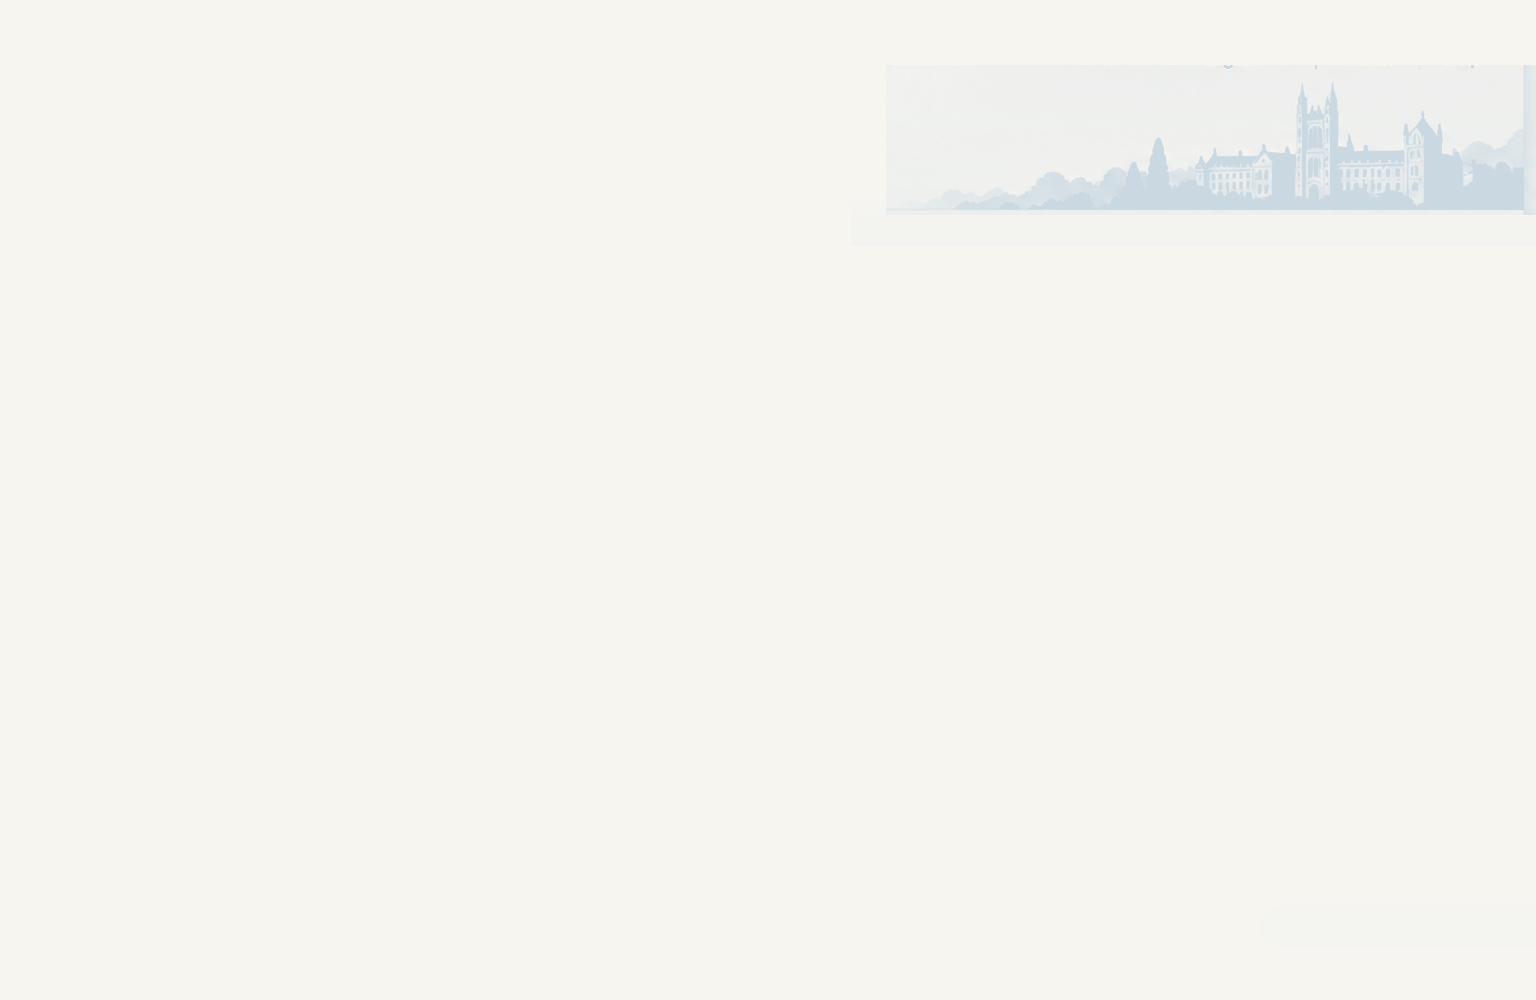
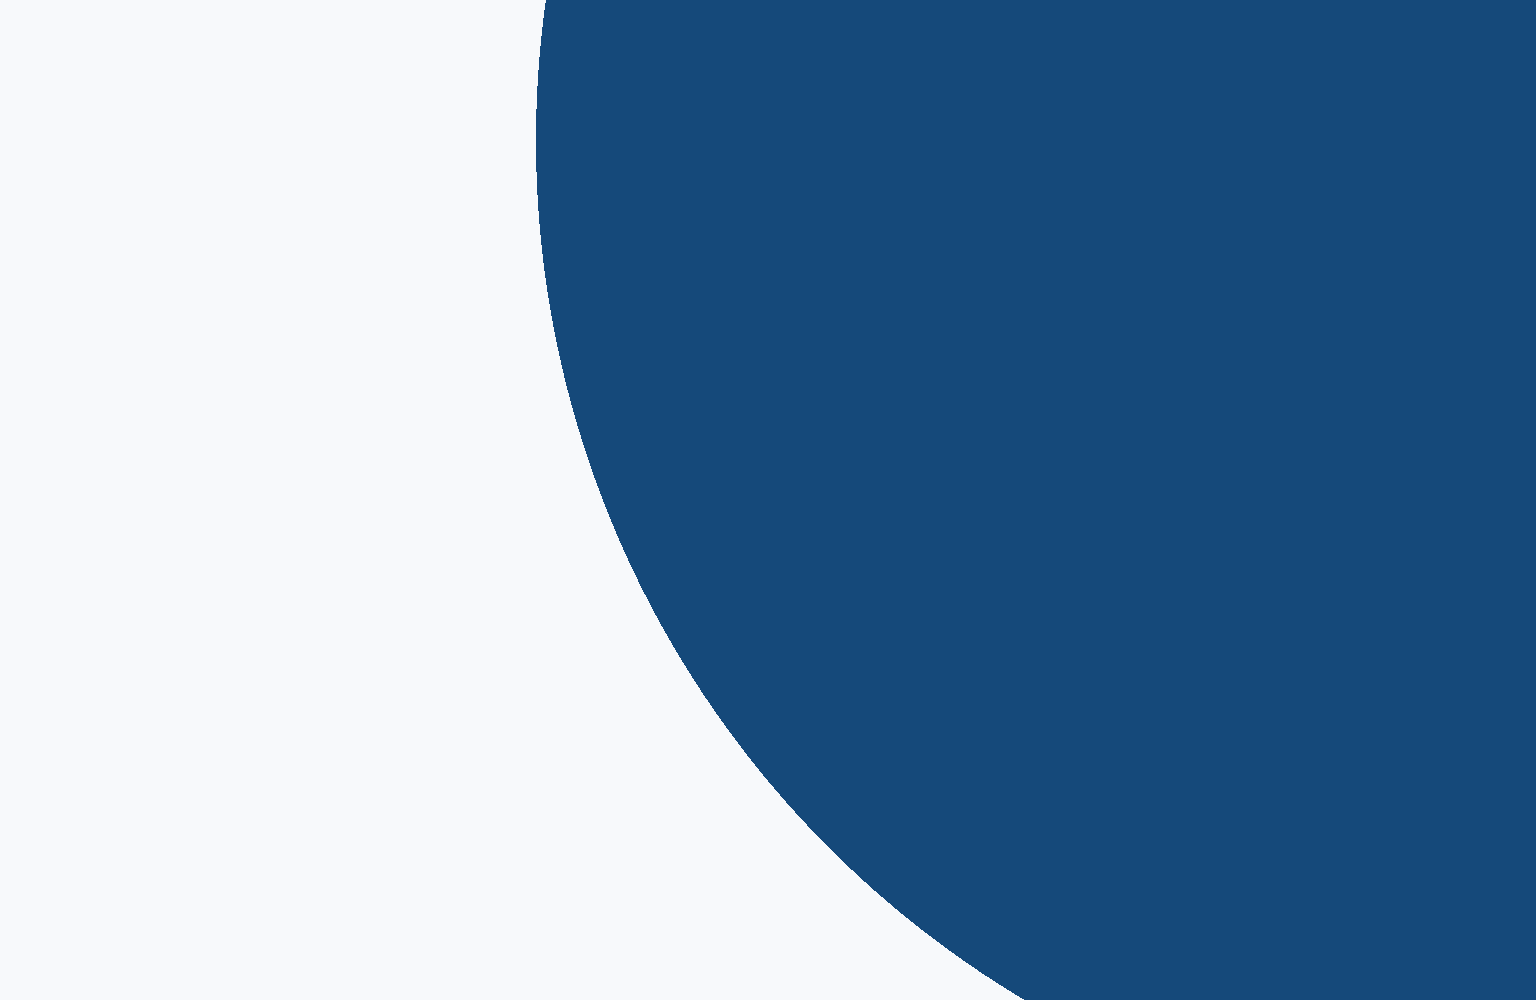
UI: academic-blue theme, cool-white background, startup flash fix
- Deepen primary to academic navy (#15497A); switch background to cool near-white (#F7F9FB) with a faint top-right blue glow for a clean international/academic look, distinct from the domestic red-gold style.
- Regenerate backdrop.png (flat area matches BG for zero seam).
- Port student-version startup-flash fix: withdraw root until UI built, then deiconify.

diff --git a/src/ui/theme.py b/src/ui/theme.py
@@ -2,7 +2,7 @@
 
 来源：`Thesis_Format_Doctor_Global_UI_Agent_Handoff` 的 `UI_DESIGN_SPEC.json`
 （2026-09-12 老板交办）。规格书要求把界面从「老式 Windows 工具」改成
-「premium 学术生产力软件」：象牙白纸底 + 学术深蓝主色、大量留白、极简边框。
+「premium 学术生产力软件」：冷调近白纸底 + 学术深蓝主色、大量留白、极简边框。
 
 为什么单独一个模块，而不是把色值散在 `app.py` 里：
 1. 规格书第 8 条明确「不新增功能，只重组呈现」—— 说明视觉层可以整体替换，
@@ -19,23 +19,23 @@ from __future__ import annotations
 # ---------------------------------------------------------------------------
 # 颜色 —— 严格照 UI_DESIGN_SPEC.json 的 colors 段
 # ---------------------------------------------------------------------------
-BG = "#F6F3EC"            # 象牙纸底（页面背景）
-SURFACE = "#FFFDF9"       # 卡片面
+BG = "#F7F9FB"            # 冷调近白（页面背景，与 backdrop 平展区同色，勿单独改）
+SURFACE = "#FFFFFF"       # 卡片面（纯白，在冷白底上更挺括）
 SURFACE_SOFT = "#F4F8FC"  # 柔和面（信息框 / 信任卡）
 
-PRIMARY = "#1F6FAE"       # 学术深蓝 —— 品牌主色 & 主操作色
-PRIMARY_HOVER = "#174B7A"  # 主色 active
-PRIMARY_SOFT = "#EAF3FB"  # 主色浅底（徽标 / 选中行）
-SECONDARY = "#66819A"     # 次要蓝（helper / 次要文字）
+PRIMARY = "#15497A"       # 学术深蓝（国际化：比原 #1F6FAE 更沉、更具「大学 / 期刊」感）
+PRIMARY_HOVER = "#0F3A60"  # 主色 active（更深）
+PRIMARY_SOFT = "#E7F0F8"  # 主色浅底（徽标 / 选中行）
+SECONDARY = "#5E7C99"     # 次要蓝（helper / 次要文字）
 
-TEXT = "#17324D"          # 主文字
-TEXT_2 = "#66819A"        # 次要文字（helper / 描述）
+TEXT = "#17324D"          # 主文字（深海军墨）
+TEXT_2 = "#5E7C99"        # 次要文字（helper / 描述）
 TEXT_3 = "#8A9AAB"        # 三级文字（页脚 / 极弱提示）
 
 BORDER = "#D8E2EA"        # 卡片 / 控件边框
 HAIRLINE = "#E9EEF2"      # 字段之间的细分隔线
-INFO_BORDER = "#D9E7F2"   # 信息框边框（比卡片边框略偏蓝）
-SHADOW = "#E7E3D8"        # 卡片投影（画在背景色上的一层极浅色带）
+INFO_BORDER = "#D2E1EF"   # 信息框边框（比卡片边框略偏蓝）
+SHADOW = "#E3E8EF"        # 卡片投影（冷调极浅色带，画在背景色上）
 
 GOLD = "#B89A5A"          # 可选点缀（克制使用，不做主色）
 SUCCESS = "#3E7B67"       # 成功 / 已完成
@@ -97,7 +97,7 @@ CARD_REQ_W = 420       # 圆角卡片对外发布的宽度请求上限（防 gri
 # ---------------------------------------------------------------------------
 # 背景层定位（assets/backdrop.png = GLOBAL_BACKGROUND.png）
 # ---------------------------------------------------------------------------
-# 素材是 1536×1000 的「右上角学术天际线」：非平坦区（天际线）落在素材 y 65~215、
+# 素材是 1536×1000 的「右上角极淡蓝色渐变光晕」：非平坦区（蓝色光晕）集中在素材右上角、
 # x 851~1536。两条定位纪律（v2.3.0 修掉了老板看到的「花屏横带」）：
 #   ① **贴窗口右上角**（anchor=ne），而不是水平居中 —— 居中时窗口一旦宽过 1536px，
 #      素材右边缘会切在天际线中间，露出一条被硬切开的图片横带；

diff --git a/src/ui/app.py b/src/ui/app.py
@@ -2297,7 +2297,9 @@ class App:
 
 def main():
     root = tk.Tk()
+    root.withdraw()          # 消掉启动一闪：先隐藏主窗，等 UI 全部建完再显示
     App(root)
+    root.deiconify()         # UI 构建完毕，正式显示
     root.mainloop()
 
 
